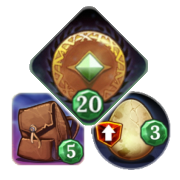
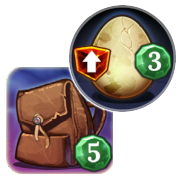
Итоговый подсчёт

diff --git a/frontend/src/app/game/clank/services/game-info.service.ts b/frontend/src/app/game/clank/services/game-info.service.ts
@@ -38,8 +38,6 @@ import {
 import {
     ClankCardType,
     ClankCostInfo,
-    ClankDlcEnum,
-    ClankElementTypeEnum,
 } from '@shared/clank/clank-info.types';
 import { ClankMapElementConfig } from '@shared/clank/clank-map.types';
 import {
@@ -47,10 +45,7 @@ import {
     GamePlayerColorIdEnum,
     GamePlayerColorIds,
 } from '@shared/clank/clank-player.types';
-import {
-    ClankTokenConfig,
-    ClankTokenTypeEnum,
-} from '@shared/clank/clank-token.types';
+import { ClankTokenConfig } from '@shared/clank/clank-token.types';
 import { SocketErrorTypeEnum } from '@shared/socket.types';
 
 import { TrashCardsComponentResult } from '../dialogs/trash-cards/trash-cards.component';
@@ -149,21 +144,6 @@ export class GameInfoService implements OnDestroy {
                 player.isFinish = true;
                 player.isEscaped = true;
                 player.benefitInfo.mastery_token = 1;
-                player.tokens.push({
-                    id: 'mastery_token',
-                    copy_index: 0,
-                    count: -1,
-                    name: 'Жетон мастерства',
-                    element_type: ClankElementTypeEnum.mastery_token,
-                    url: '/assets/images/tokens/bonus/master.png',
-                    points: {
-                        value: 20,
-                    },
-                    isSquare: true,
-                    dlc_name: ClankDlcEnum.clank,
-                    index: 0,
-                    type: ClankTokenTypeEnum.bonus,
-                });
             }
             state.players = arrayUpdate(
                 state.players,

diff --git a/frontend/src/app/game/clank/clank.component.html b/frontend/src/app/game/clank/clank.component.html
@@ -30,6 +30,13 @@
                             </th>
                             <th>
                                 <img class="clank_table_head_img"
+                                    src="/assets/images/tokens/bonus/master.png"
+                                    alt="Жетон мастерства"
+                                    matTooltip="Жетон мастерства"
+                                    matTooltipPosition="above">
+                            </th>
+                            <th>
+                                <img class="clank_table_head_img"
                                     src="/assets/images/artefact.png"
                                     alt="Артефакты"
                                     matTooltip="Артефакты"
@@ -57,6 +64,7 @@
                             </td>
                             <td class="to_right">{{player.coins}}</td>
                             <td class="to_right">{{player.tokens}}</td>
+                            <td class="to_right">{{player.master}}</td>
                             <td class="to_right">{{player.artifacts}}</td>
                             <td class="to_right">{{player.cards}}</td>
                             <td class="to_right total">{{player.total}}</td>

diff --git a/frontend/src/app/game/clank/clank.component.ts b/frontend/src/app/game/clank/clank.component.ts
@@ -48,6 +48,7 @@ export class ClankComponent implements OnInit {
             let winner: PlayerPointsResult | undefined;
             const rows = players.map(player => {
                 const coins = player.benefitInfo.coin ?? 0;
+                const master = player.isEscaped ? 20 : 0;
                 const tokens = player.tokens.reduce((acc, token) => acc + (token.points?.value ?? 0), 0);
                 const artifacts = player.artifacts.reduce((acc, artefact) => acc + (artefact.points?.value ?? 0), 0);
                 const cards = [
@@ -65,8 +66,9 @@ export class ClankComponent implements OnInit {
                     coins,
                     tokens,
                     artifacts,
+                    master,
                     cards,
-                    total: coins + tokens + cards,
+                    total: coins + tokens + artifacts + master + cards,
                 };
                 if (winner == null || winner.total < result.total) {
                     winner = result;

diff --git a/frontend/src/app/shared/models/players/player.types.ts b/frontend/src/app/shared/models/players/player.types.ts
@@ -14,6 +14,7 @@ export interface PlayerPointsResult {
     coins: number;
     tokens: number;
     artifacts: number;
+    master: number;
     cards: number;
     total: number;
 }
